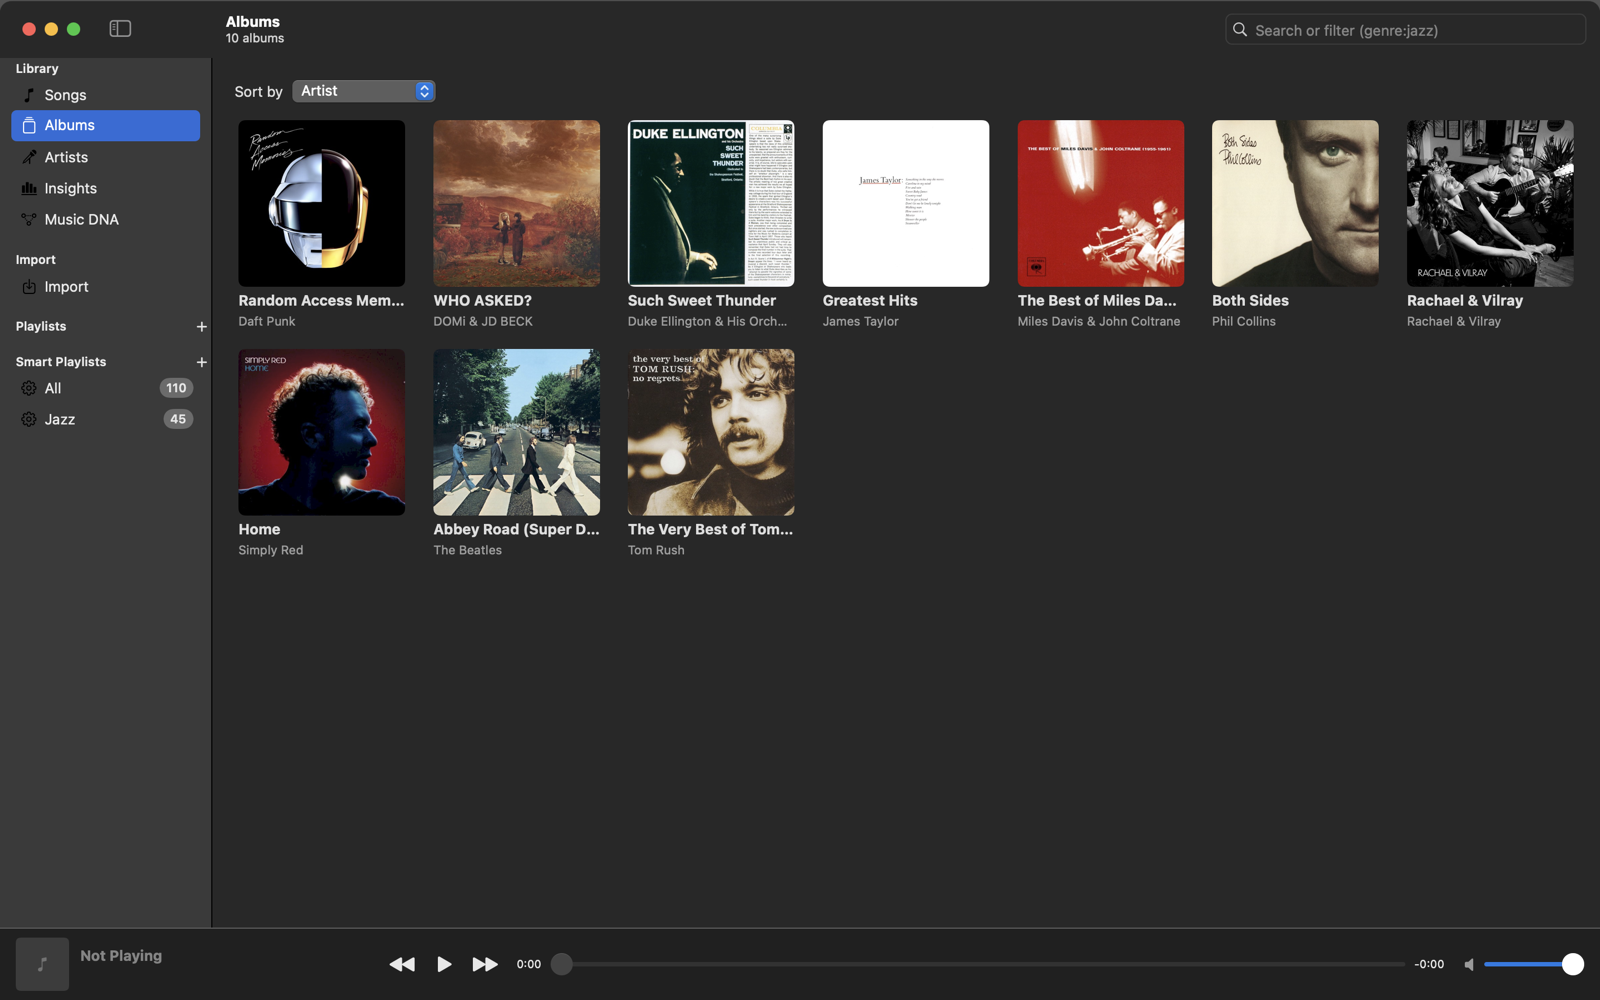
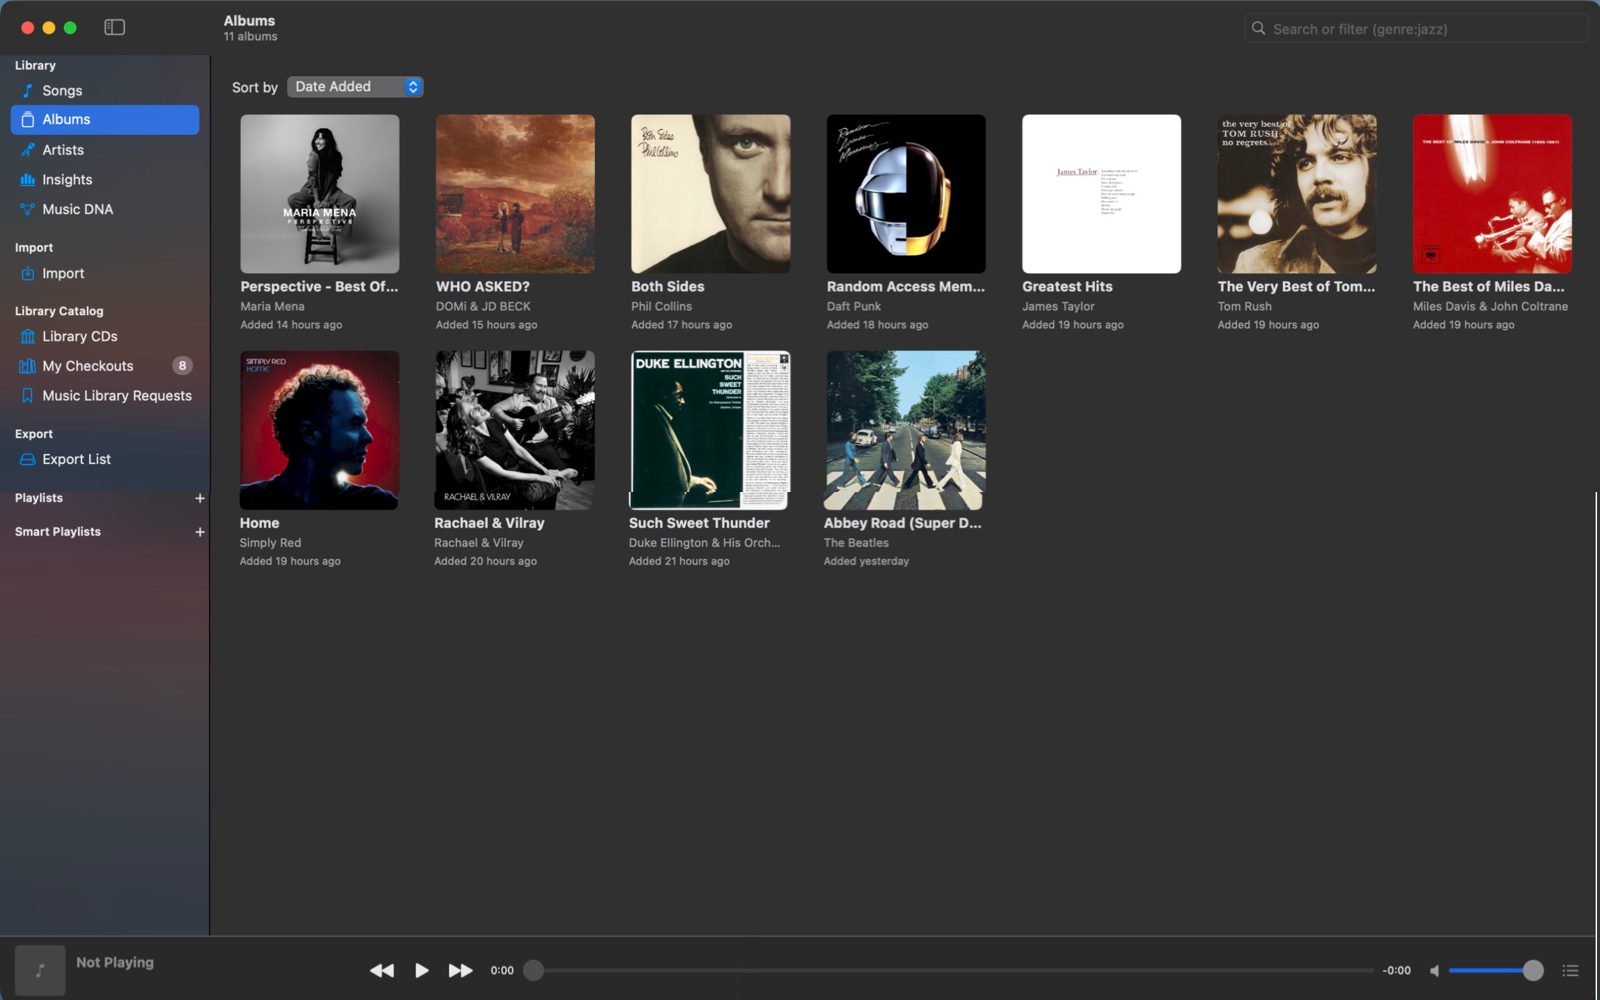
Rewrite the README for every feature and retake the screenshots
Covers ripping, the import queue, the play queue and Now Playing, both
Insights panes and Library CDs; adds Listening and Library CDs screenshots.

diff --git a/README.md b/README.md
@@ -6,7 +6,7 @@
 
 <p align="center">
   A native macOS music library for people who care about their files: import and rip, tag everything from MusicBrainz,
-  play bit-perfect, and explore your collection in ways streaming apps don't let you.
+  play bit-perfect, explore your collection in ways streaming apps don't let you, and find your next CD at the public library.
 </p>
 
 <p align="center">
@@ -16,41 +16,80 @@
   <a href="LICENSE"><img src="https://img.shields.io/badge/license-MIT-green" alt="MIT license"></a>
 </p>
 
-![An album page: the cover, a blurred-cover backdrop, the full track list and listening stats](docs/screenshots/album.png)
+![An album page: the cover, a blurred-cover backdrop, rating, genres, listening stats and the full track list](docs/screenshots/album.png)
 
 ## Highlights
 
-- **Import anything, keep it tidy.** Drop in FLAC, MP3, M4A, WAV or AIFF files, or rip a CD straight to FLAC. Tracks are matched against
-  [MusicBrainz](https://musicbrainz.org) (optionally by audio fingerprint via AcoustID), tagged with rich metadata and credits, given
-  cover art from the Cover Art Archive, and copied into a clean `Artist/Album (Year)/NN - Title` folder. Your original files are never modified.
-- **Albums and artists, beautifully.** Album pages show the full release track list (including what you're missing), descriptions,
-  community ratings, credits and links to reviews. Artist pages bring photos, bios and links. All of it is fetched once and kept locally.
-- **Music DNA.** See who played, wrote and produced with whom across your library, and click your way from one collaborator to the next.
-- **Search that understands music.** `genre:jazz year:1955-1965 is:hires`, `credit:"rudy van gelder"`, `added:30d`, `missing:cover`…
-  with autocomplete and typo correction. Save any search as a smart playlist that keeps itself up to date.
-- **Insights.** Two panes: your collection by decade, genre, artist, audio quality and growth, and your listening (top songs, artists and albums, when you listen, the eras you favor, skips, streaks and favorites to rediscover) over 7 days, 30 days, 12 months or all time. Fun facts in both, all clickable.
-- **Bit-perfect playback.** The output device follows each track's sample rate and bit depth, and the original format is restored when you quit.
-- **Listening history and Last.fm.** Time listened and plays per album and artist, and optional scrobbling with an offline queue.
-- **Themes.** System, Catppuccin (all four flavors, or auto light/dark), Nord, Dracula, Solarized, Gruvbox, Tokyo Night and Rosé Pine.
-- **Take it with you.** Add albums, songs, artists and playlists to the Export List and copy them to a USB player
-  or drive in the library's own `Music/Artist/Album` layout, covers included. The destination is remembered, and the
-  page shows side by side what you're adding and what the drive already has, highlighting what will actually be copied.
-  Files already there are never overwritten, and playlists get `.m3u` files. Turn on the database option to also back
-  up `library.sqlite` and the artist photos to the drive, for a full library backup.
-  A single playlist can still be exported to its own folder.
+**Build the library**
+
+- **Import anything, keep it tidy.** Drop in FLAC, MP3, M4A, WAV or AIFF files and folders. Each track is matched against
+  [MusicBrainz](https://musicbrainz.org) (optionally by audio fingerprint via AcoustID); confident matches are applied
+  automatically and the rest wait in the Import queue with candidates to pick from. Tracks get rich metadata and credits
+  (players, producers, engineers, writers), cover art from the Cover Art Archive, and a clean
+  `Artist/Album (Year)/NN - Title` folder. Your original files are never modified.
+- **Rip CDs to FLAC.** Insert a disc and it's identified on MusicBrainz by its table of contents; pick the release (the app
+  warns when there's no exact match), choose tracks, and they're ripped and imported like any other file. The disc can be
+  ejected when it's done.
+
+**Explore it**
+
+- **Albums and artists, beautifully.** Album pages show the full release track list (including what you're missing),
+  descriptions, community ratings, genres, credits, release details and links to reviews. Artist pages bring photos,
+  bios, stats and links to dozens of sites. All of it is fetched once and kept locally.
+- **Search that understands music.** `genre:jazz year:1955-1965 is:hires`, `credit:"rudy van gelder"`, `added:30d`,
+  `missing:cover`… with autocomplete, typo correction, top hits and one-click refinements. Save any search as a smart
+  playlist that keeps itself up to date.
+- **Music DNA.** See who played, wrote and produced with whom across your library, and click your way from one
+  collaborator to the next. Any name in the app opens it.
+- **Insights.** Two panes: your collection (by decade, genre, artist, audio quality, growth, track length and most-credited
+  people) and your listening (top songs, artists and albums, activity over time, when you listen, the genres and eras you
+  play, skips, streaks and favorites to rediscover) over 7 days, 30 days, 12 months or all time. Everything is clickable.
+
+**Play it**
+
+- **Bit-perfect playback.** The output device follows each track's sample rate and bit depth, and the original format is
+  restored when you quit.
+- **A real play queue.** Play Next and Add to Queue from any song, album, artist or playlist; the queue panel (⌥⌘U) shows
+  what's playing, what's up next and the rest of the list, with drag to reorder. The space bar plays and pauses, and the
+  player bar expands into a full Now Playing view.
+- **Playlists and smart playlists.** Regular playlists you arrange yourself, and smart ones defined by a search.
+- **Listening history and Last.fm.** Plays and time listened per song, album and artist, and optional scrobbling with an
+  offline queue.
+
+**Your public library's CDs**
+
+- **Browse the catalog.** Music CDs from a public library catalog run on Aspen Discovery (like the
+  [Minuteman Library Network](https://www.minlib.net)), with the libraries that own each one and what's on the shelf right now.
+- **Downloaded and searchable like your music.** Your libraries' whole CD catalogs are downloaded and searched on your Mac
+  with the same filters as your library, plus catalog ones: `genre:jazz decade:60s -is:owned is:available`.
+- **Real album details.** Each CD is matched on MusicBrainz by its barcode for the cover, track list, year, label, genres,
+  rating and description, and marked when it's already in your library, even when the catalog spells it differently.
+- **Your account.** Sign in to see your checkouts (and which you haven't ripped yet) and to add CDs to one of your library
+  lists, so you know what to look for on your next visit.
+
+**Make it yours**
+
+- **Themes.** System, Catppuccin (all four flavors, or auto light/dark), Nord, Dracula, Solarized, Gruvbox, Tokyo Night and
+  Rosé Pine.
+- **Take it with you.** Add albums, songs, artists and playlists to the Export List and copy them to a USB player or drive
+  in the library's own `Music/Artist/Album` layout, covers included. The destination is remembered, and the page shows
+  side by side what you're adding and what the drive already has, highlighting what will actually be copied. Files already
+  there are never overwritten, and playlists get `.m3u` files. Turn on the database option to also back up
+  `library.sqlite` and the artist photos to the drive, for a full library backup. A single playlist can still be exported
+  to its own folder.
 
 ## Tour
 
 ### Albums and artists
 
-![The albums grid with cover art](docs/screenshots/albums.png)
+![The albums grid with cover art, sorted by date added](docs/screenshots/albums.png)
 
 ![An artist page with photo, stats, bio and links](docs/screenshots/artist.png)
 
 ### Music DNA
 
-Pick anyone from your credits, or click a name anywhere in the app, to see their collaborators. Click a bubble to put that person
-at the center, and choose how many levels of connections to show.
+Pick anyone from your credits, or click a name anywhere in the app, to see their collaborators. Click a bubble to put that
+person at the center, and choose how many levels of connections to show.
 
 ![Music DNA centered on James Taylor, with musicians, writers and producers around him](docs/screenshots/music-dna.png)
 
@@ -69,11 +108,38 @@ Plain words search titles, artists, albums, genres, composers, labels and credit
 | Gaps | `missing:cover`, `missing:year`, `has:credits` |
 | Logic | `-live` excludes, `"exact phrase"`, `a OR b` |
 
-Click **?** next to the results for the full reference.
+Click **?** next to the results for the full reference, or **Save as Smart Playlist** to keep the search.
 
 ### Insights
 
-![Insights: totals, a timeline by decade, genres and top artists](docs/screenshots/insights.png)
+![Insights, Library pane: totals, a timeline by decade, genres, top artists and audio quality](docs/screenshots/insights.png)
+
+![Insights, Listening pane: listening time, plays, streaks, activity over time and top songs, artists and albums](docs/screenshots/listening.png)
+
+### Library CDs
+
+![The downloaded catalog of a public library's CDs, searched for genre:jazz, with genre and decade chips and shelf status](docs/screenshots/library-cds.png)
+
+![A library CD's page: cover and details from MusicBrainz, where to find it across the network, and its track list](docs/screenshots/library-cd.png)
+
+Set it up in **Settings ▸ Library**: the catalog's address (it defaults to the Natick library in the Minuteman network), your
+library, and optionally your card number and PIN. Opening **Library CDs** downloads every CD your library owns, about a
+quarter of an hour for a couple of thousand, then looks each one up on MusicBrainz in the background (a few seconds per CD,
+the first time only; the library's website and MusicBrainz both ask apps to go easy). The download is refreshed when it's
+more than 12 hours old, for new titles and current availability. Other libraries can be added, and
+**Search the Whole Network Live** in the library menu searches every library on the catalog's website.
+
+The search takes the same filters as your music, with a few catalog meanings and extras:
+
+| Filter | Meaning |
+|---|---|
+| `title:"so what"` | A song on the CD |
+| `time:>60m`, `disc:2` | Album length, number of discs |
+| `added:30d` | New in the catalog (since your first download) |
+| `is:owned`, `-is:owned` | Already in your music library, or not |
+| `is:available`, `is:out` | On the shelf at your library right now, or not |
+| `is:onlist` | On the library list you chose in Settings |
+| `library:acton`, `rating:>=4` | Owned by a library; MusicBrainz community rating |
 
 ### Themes
 
@@ -100,6 +166,9 @@ Click **?** next to the results for the full reference.
 
    Optional: `brew install chromaprint` for AcoustID fingerprint matching (also needs a free [AcoustID API key](https://acoustid.org/new-application)).
 
+When a new version first reads your saved keys and passwords, macOS asks once to allow access to the keychain; choose
+**Always Allow**.
+
 ## Getting started
 
 - Your library lives in `~/Music/MusicLibrary` by default; choose another folder in **Settings ▸ General**.
@@ -107,18 +176,23 @@ Click **?** next to the results for the full reference.
 - Add your email under **Settings ▸ General ▸ MusicBrainz**; MusicBrainz asks apps to identify who's making requests.
 - To scrobble, create a free [Last.fm API account](https://www.last.fm/api/account/create), enter the key and shared secret in
   **Settings ▸ Last.fm** and click **Connect**.
+- For your public library's CDs, open **Settings ▸ Library**, check the catalog address and your library, and sign in if
+  you'd like your checkouts and lists.
 
 ### Moving to another Mac
 
-Everything that matters is in the library folder: your music, `library.sqlite` (playlists, history, cached info) and `Artist Images`.
-Quit the app, copy the folder (to an external drive, for example), and on the new Mac choose it in **Settings ▸ General**.
+Everything that matters is in the library folder: your music, `library.sqlite` (playlists, history, cached info and the
+downloaded library catalog) and `Artist Images`. Quit the app, copy the folder (to an external drive, for example), and on
+the new Mac choose it in **Settings ▸ General**.
 
 ## Privacy
 
-The library, your listening history and your settings stay on your Mac. The app talks to these services, only to look things up:
-MusicBrainz and the Cover Art Archive (matching, covers, artist and album info), Wikipedia, Wikidata and Wikimedia Commons
-(descriptions and photos), AcoustID (only if you add a key), and Last.fm (only if you connect it). Downloading artist and album info
-can be turned off in **Settings ▸ General**.
+The library, your listening history and your settings stay on your Mac. The app talks to these services, only to look
+things up: MusicBrainz and the Cover Art Archive (matching, covers, artist and album info), Wikipedia, Wikidata and
+Wikimedia Commons (descriptions and photos), AcoustID (only if you add a key), Last.fm (only if you connect it), and your
+library's catalog website (only once you open Library CDs; your card number and PIN are sent only to that site). API keys,
+secrets and your PIN are kept in your keychain. Downloading artist and album info can be turned off in
+**Settings ▸ General**, and looking up library CDs in **Settings ▸ Library**.
 
 ## Building from source
 
@@ -132,8 +206,9 @@ open build/MusicLibrary.app
 swift test                      # runs the test suite (needs ffmpeg)
 ```
 
-`scripts/build-app.sh` accepts `VERSION=1.2.3` and `UNIVERSAL=1` (Apple Silicon + Intel, needs Xcode). With only the Command Line
-Tools installed, see [AGENTS.md](AGENTS.md) for an SDK note.
+`scripts/build-app.sh` accepts `VERSION=1.2.3`, `UNIVERSAL=1` (Apple Silicon + Intel, needs Xcode) and `SIGN_IDENTITY=…`
+(a signing certificate; one with a Team ID keeps keychain access across rebuilds). With only the Command Line Tools
+installed, see [AGENTS.md](AGENTS.md) for an SDK note.
 
 Releases are built by GitHub Actions: pushing a tag like `v1.2.3` runs the tests, builds a universal app and publishes it on the
 Releases page.
@@ -143,7 +218,8 @@ Releases page.
 Metadata from [MusicBrainz](https://musicbrainz.org) and the [Cover Art Archive](https://coverartarchive.org); descriptions and photos
 from [Wikipedia](https://www.wikipedia.org), [Wikidata](https://www.wikidata.org) and [Wikimedia Commons](https://commons.wikimedia.org)
 (each photo links to its source and license in the app); fingerprints from [AcoustID](https://acoustid.org); scrobbling via
-[Last.fm](https://www.last.fm); audio work by [FFmpeg](https://ffmpeg.org).
+[Last.fm](https://www.last.fm); audio work by [FFmpeg](https://ffmpeg.org); library catalogs by
+[Aspen Discovery](https://aspendiscovery.org).
 
 ## License
 
